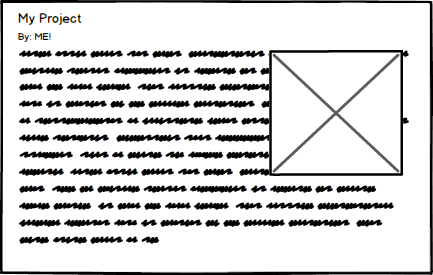
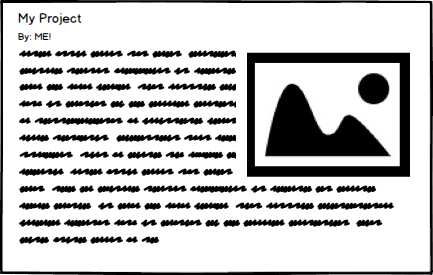
Improved the template previews.

Changed region(s): [[0.5404, 0.1745, 0.9607, 0.6691]]

diff --git a/app/styles/project-intro.scss b/app/styles/project-intro.scss
@@ -61,10 +61,10 @@
 
     // Edit Modal stuff
     .select-template {
-        background-size: 225px 200px;
+        background-size: 350px 200px;
         background-repeat: no-repeat;
         min-height: 200px;
-        min-width: 225px;
+        min-width: 400px;
     }
     .select-av {
         background-image: url(/assets/images/ArticleVideo.png);
